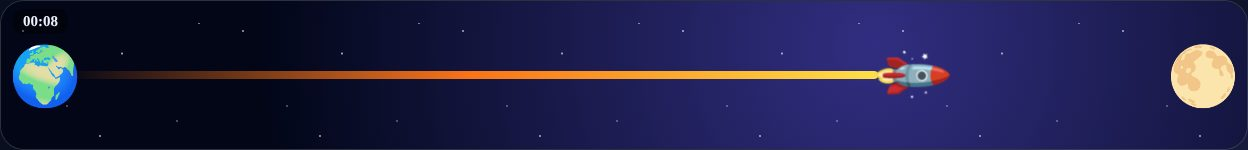
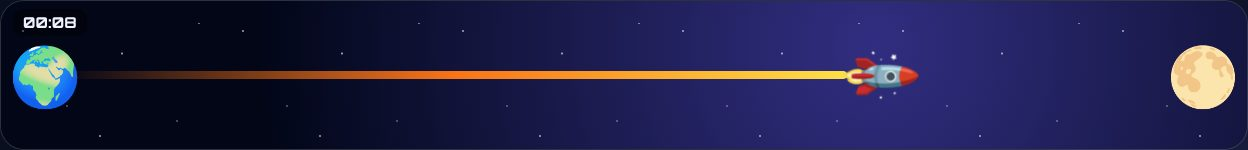
Reloj Alarma: dígitos de ancho fijo, marca mistikedu.com, barras San Fermín y Alien (sustituye Oruga)
Claude-Session: https://claude.ai/code/session_01MZQHbKRbRvLYSsw55mvYAR

diff --git a/reloj-alarma/index.html b/reloj-alarma/index.html
@@ -18,12 +18,14 @@ body{font-family:Outfit,system-ui,sans-serif;color:var(--fg);background:var(--bg
   background-image:radial-gradient(1200px 600px at 50% -10%,color-mix(in srgb,var(--a1) 28%,transparent),transparent 70%),radial-gradient(900px 500px at 110% 110%,color-mix(in srgb,var(--a2) 22%,transparent),transparent 70%);
   background-attachment:fixed;min-height:100vh;transition:background .4s;overflow-x:hidden}
 button{font-family:inherit;color:inherit;cursor:pointer}
+.brand{display:block;text-align:center;font-size:12px;font-weight:600;letter-spacing:.14em;color:var(--mut);text-decoration:none;padding-top:6px;position:relative;z-index:6}
+.brand:hover{color:var(--fg)}
 header{display:flex;align-items:center;gap:10px;padding:12px 16px;position:sticky;top:0;z-index:5;backdrop-filter:blur(10px)}
 header h1{flex:1;margin:0;font-size:20px;font-weight:800;letter-spacing:.3px}
 .ib{width:46px;height:46px;border-radius:14px;border:1px solid var(--bd);background:var(--card);font-size:22px;display:grid;place-items:center;transition:.15s}
 .ib:hover{background:rgba(255,255,255,.14);transform:translateY(-1px)}
 body[data-v="home"] #back{visibility:hidden}
-.view{display:none;min-height:calc(100vh - 70px);flex-direction:column}
+.view{display:none;min-height:calc(100vh - 92px);flex-direction:column}
 .view.on{display:flex}
 
 /* HOME */
@@ -42,9 +44,10 @@ body[data-v="home"] #back{visibility:hidden}
 
 /* STAGE */
 .stage{flex:1;display:flex;flex-direction:column;align-items:center;justify-content:center;padding:10px 16px;gap:14px;text-align:center}
-.disp{font-family:Orbitron,monospace;font-weight:800;line-height:1;letter-spacing:.02em;font-variant-numeric:tabular-nums;
-  background:linear-gradient(180deg,#fff,color-mix(in srgb,var(--a1) 55%,#fff));-webkit-background-clip:text;background-clip:text;color:transparent;
+.disp{font-family:Orbitron,monospace;font-weight:800;line-height:1;font-variant-numeric:tabular-nums;color:#fff;
   filter:drop-shadow(0 0 28px color-mix(in srgb,var(--a1) 55%,transparent));white-space:nowrap;font-size:96px}
+.disp .dg,.disp .sp{display:inline-block;text-align:center;background:linear-gradient(180deg,#fff,color-mix(in srgb,var(--a1) 55%,#fff));-webkit-background-clip:text;background-clip:text;color:transparent}
+.disp .dg{width:.86em}.disp .sp{width:.32em}
 .sub{font-size:clamp(16px,2.6vw,24px);color:var(--mut);min-height:1.3em}
 .sub b{color:var(--fg)}
 .ctrls{display:flex;gap:12px;flex-wrap:wrap;justify-content:center}
@@ -170,16 +173,39 @@ select{background:#1a2036;color:var(--fg);border:1px solid var(--bd);border-radi
 .done .space .moon{animation:pop .6s}
 @keyframes pop{50%{transform:translateY(-50%) scale(1.4)}}
 
-/* oruga */
-.meadow{position:absolute;inset:0;background:linear-gradient(#1e3a8a 0,#0c4a6e 40%,#3f6212 40%,#4d7c0f)}
-.meadow .sun{position:absolute;right:16px;top:6px;font-size:32px}
-.apple{position:absolute;bottom:18px;font-size:min(34px,6vh);transition:transform .3s,opacity .3s}
-.apple.eaten{opacity:0;transform:scale(.2) translateY(-30px)}
-.meadow .mover{bottom:12px;font-size:min(58px,10vh)}
-.active .meadow .worm{display:inline-block;animation:inch .6s infinite}
-@keyframes inch{50%{transform:scaleX(-1.12) scaleY(.88)}}
-.done .meadow .mover{animation:fly 1.6s infinite ease-in-out}
-@keyframes fly{50%{transform:translateY(-40px) rotate(-10deg)}}
+/* san fermin */
+.sf{position:absolute;inset:0;background:#a8a29e}
+.sf .street{position:absolute;left:0;right:0;top:0;height:56%;display:flex}
+.house{flex:1;display:flex;justify-content:space-around;align-items:center;border-right:2px solid rgba(0,0,0,.12);min-width:44px}
+.house i{width:12px;height:18px;background:#1f2937;border-radius:6px 6px 0 0;border-bottom:4px solid #7f1d1d;box-shadow:0 6px 0 -2px #dc2626}
+.sf .cobble{position:absolute;left:0;right:0;top:56%;bottom:0;background:repeating-linear-gradient(90deg,rgba(0,0,0,.13) 0 2px,transparent 2px 24px),repeating-linear-gradient(0deg,rgba(0,0,0,.13) 0 2px,transparent 2px 14px),#a8a29e}
+.sf .plaza{position:absolute;right:6px;bottom:6px;font-size:min(64px,11vh);line-height:1;z-index:1}
+.sf .mover{bottom:6px}
+.mozosvg{height:min(84px,14vh);display:block}
+.bullsvg{height:min(68px,11.5vh);display:block}
+.sf .mover .bub{position:absolute;bottom:100%;left:50%;transform:translateX(-50%);font-size:15px;font-weight:800;background:#fff;color:#111;border-radius:12px;padding:3px 8px;white-space:nowrap;display:none}
+.sf .mover .bub.on{display:block}
+.legA,.legB,.armA,.armB,.blA,.blB{transform-box:fill-box;transform-origin:50% 0}
+.active .legA,.active .armB,.active .blA{animation:swing .3s infinite alternate ease-in-out}
+.active .legB,.active .armA,.active .blB{animation:swing2 .3s infinite alternate ease-in-out}
+@keyframes swing{from{transform:rotate(28deg)}to{transform:rotate(-28deg)}}
+@keyframes swing2{from{transform:rotate(-28deg)}to{transform:rotate(28deg)}}
+.active .sf svg{animation:bob .3s infinite}
+
+/* alien */
+.space2{position:absolute;inset:0;background:radial-gradient(circle at 20% 20%,#3b0764,#020617 70%)}
+.space2 .planet{position:absolute;right:10px;bottom:-45px;font-size:120px;line-height:1}
+.ufo{top:6%;transition:left .25s linear,top .25s linear}
+.ufosvg{width:min(100px,17vh);display:block}
+.active .ufosvg{animation:hover 1.4s infinite ease-in-out}
+@keyframes hover{50%{transform:translateY(-4px) rotate(-4deg)}}
+.ufosvg .lt{animation:blink .5s infinite alternate}
+.ufosvg .lt:nth-of-type(2n){animation-delay:.25s}
+@keyframes blink{to{opacity:.2}}
+.ufo .beam{position:absolute;left:10%;width:80%;top:78%;height:110px;clip-path:polygon(38% 0,62% 0,100% 100%,0 100%);background:linear-gradient(rgba(190,255,140,.85),rgba(190,255,140,0));opacity:0;transition:opacity .5s;z-index:-1}
+.done .ufo .beam{opacity:1;animation:pulse 1s infinite}
+.ufo .al{position:absolute;left:50%;top:105%;font-size:30px;transform:translateX(-50%) scale(0);transition:transform .5s cubic-bezier(.3,1.8,.5,1) .3s}
+.done .ufo .al{transform:translateX(-50%) scale(1)}
 
 /* vela */
 .t-vela{background:radial-gradient(circle at 50% 70%,#7c2d12 0,#1c0a03 70%)}
@@ -206,7 +232,8 @@ select{background:#1a2036;color:var(--fg);border:1px solid var(--bd);border-radi
 .note{color:var(--mut);font-size:13px;text-align:center;padding:0 16px 10px}
 
 /* FULLSCREEN */
-body.fs header{position:fixed;left:0;right:0;opacity:.25;transition:opacity .3s;backdrop-filter:none}
+body.fs .brand{position:fixed;top:0;left:0;right:0;opacity:.7;pointer-events:auto}
+body.fs header{position:fixed;top:14px;left:0;right:0;opacity:.25;transition:opacity .3s;backdrop-filter:none}
 body.fs header:hover{opacity:1}
 body.fs .config,body.fs .note,body.fs .presets,body.fs .aset,body.fs .laps{display:none}
 body.fs .view{min-height:100vh}
@@ -218,8 +245,12 @@ body.fs .crocsvg{width:30vh}
 body.fs .victim{font-size:11vh}
 body.fs .space .earth,body.fs .space .moon{font-size:12vh}
 body.fs .space .mover{font-size:10vh;margin-top:-5vh}
-body.fs .meadow .mover{font-size:11vh}
-body.fs .apple{font-size:6vh}
+body.fs .mozosvg{height:16vh}
+body.fs .bullsvg{height:13vh}
+body.fs .sf .plaza{font-size:13vh}
+body.fs .ufosvg{width:20vh}
+body.fs .space2 .planet{font-size:24vh;bottom:-9vh}
+body.fs .ufo .al{font-size:6vh}
 body.fs .flame{font-size:7vh}
 body.fs .wax{width:7vh}
 
@@ -232,6 +263,7 @@ body.fs .wax{width:7vh}
 </style>
 </head>
 <body data-v="home">
+<a class="brand" href="https://mistikedu.com" target="_blank" rel="noopener">mistikedu.com</a>
 <header>
   <button class="ib" id="back" title="Volver">←</button>
   <h1 id="ttl">Reloj Alarma</h1>
@@ -331,11 +363,16 @@ function fmtSW(ms){const cs=Math.floor(ms/10)%100,t=Math.floor(ms/1000),h=Math.f
 function fmtLeft(ms){if(ms<60000)return `${Math.max(0,Math.ceil(ms/1000))} s`;const t=Math.ceil(ms/60000),h=Math.floor(t/60),m=t%60;return h?`${h} h ${m} min`:`${m} min`}
 function hhmm(d){return `${pad(d.getHours())}:${pad(d.getMinutes())}`}
 function fit(el,text){
-  if(el._t!==text){el.textContent=text;el._t=text}
-  const L=text.replace(/[:.]/g,'').length+text.replace(/[^:.]/g,'').length*.45;
+  // Cada carácter va en su propia caja de ancho fijo: los dígitos no "bailan" al cambiar
+  if(el._t!==text){
+    const shape=t=>t.replace(/\d/g,'0');
+    if(!el._t||shape(el._t)!==shape(text)){el.innerHTML=[...text].map(c=>`<span class="${/\d/.test(c)?'dg':'sp'}">${c}</span>`).join('')}
+    else{const ch=el.children;for(let i=0;i<text.length;i++)if(el._t[i]!==text[i])ch[i].textContent=text[i]}
+    el._t=text}
+  const nd=(text.match(/\d/g)||[]).length,W=nd*.86+(text.length-nd)*.32;
   const fs=document.body.classList.contains('fs');
-  const key=L+'|'+fs; if(el._k===key)return; el._k=key;
-  el.style.fontSize=fs?`min(${118/L}vw,42vh)`:`min(${92/L}vw,22vh,200px)`;
+  const key=W+'|'+fs; if(el._k===key)return; el._k=key;
+  el.style.fontSize=fs?`min(${100/W}vw,42vh)`:`min(${76/W}vw,22vh,200px)`;
 }
 
 /* ---------- audio ---------- */
@@ -368,7 +405,7 @@ async function keepAwake(on){try{if(on&&!wl&&navigator.wakeLock){wl=await naviga
 function updWake(){keepAwake(T.status==='running'||W.running||A.armed)}
 
 /* ---------- progress bars ---------- */
-const TYPES=[['normal','▬','Normal'],['circular','⭕','Circular'],['carrera','🏃','Carrera'],['jungla','🐊','Jungla'],['cohete','🚀','Cohete'],['oruga','🐛','Oruga'],['vela','🕯','Vela'],['arena','⏳','Reloj de arena']];
+const TYPES=[['normal','▬','Normal'],['circular','⭕','Circular'],['carrera','🏃','Carrera'],['jungla','🐊','Jungla'],['cohete','🚀','Cohete'],['sanfermin','🐂','San Fermín'],['alien','🛸','Alien'],['vela','🕯','Vela'],['arena','⏳','Reloj de arena']];
 let uid=0;
 const TPL={
   normal:()=>`<div class="pn-track"><div class="pn-fill" data-k="fill"></div></div><div class="pn-txt" data-k="txt"></div>`,
@@ -376,8 +413,9 @@ const TPL={
   carrera:()=>`<div class="race"><div class="lanes"></div><div class="start">SALIDA</div><div class="finish"></div><div class="flag">🏁</div><div class="mover" data-k="m"><span class="bob"><span class="flip">🏃</span></span></div><div class="trophy">🏆</div></div><div class="p-label in" data-k="lab"></div>`,
   jungla:()=>`<div class="jungle"><div class="deco">🌴🌿🌴🌳🌿🌴🌿🌳🌴🌿🌴</div><div class="ripple"></div><div class="mover croc" data-k="m"><svg class="crocsvg" viewBox="0 0 200 80"><path d="M0 50 Q30 38 62 42 L62 60 Q30 62 0 50Z" fill="#3f7d2c"/><ellipse cx="96" cy="50" rx="44" ry="15" fill="#4a9a35"/><path d="M62 40 q7-9 14 0 q7-9 14 0 q7-9 14 0 q7-9 14 0" fill="#3f7d2c"/><rect x="72" y="58" width="10" height="16" rx="4" fill="#3f7d2c"/><rect x="112" y="58" width="10" height="16" rx="4" fill="#3f7d2c"/><g class="jawL"><path d="M128 52 L190 53 Q195 59 186 62 L128 63Z" fill="#6cc152"/><path d="M146 53 l3-5 l3 5 l3-5 l3 5 l3-5 l3 5 l3-5 l3 5 l3-5 l3 5Z" fill="#fff"/></g><g class="jawU"><path d="M128 36 L197 45 Q200 51 192 52 L128 52Z" fill="#4a9a35"/><path d="M142 52 l3 6 l3-6 l3 6 l3-6 l3 6 l3-6 l3 6 l3-6 l3 6 l3-6 l3 6 l3-6Z" fill="#fff"/><circle cx="192" cy="46" r="1.6" fill="#1e3a14"/></g><circle cx="138" cy="34" r="8" fill="#4a9a35"/><circle cx="140" cy="33" r="4.5" fill="#fef08a"/><circle cx="141" cy="33" r="2.2" fill="#111"/></svg></div><div class="victim" data-k="v"><span class="bub" data-k="b"></span><span data-k="pe">🧍</span></div></div><div class="p-label in" data-k="lab"></div>`,
   cohete:()=>`<div class="space"><div class="stars"></div><div class="earth">🌍</div><div class="moon">🌕</div><div class="trail" data-k="t"></div><div class="mover" data-k="m"><span class="rk">🚀</span></div></div><div class="p-label in" data-k="lab"></div>`,
-  oruga:()=>{let a='';const N=8;for(let i=1;i<=N;i++){const f=i/(N+1);a+=`<span class="apple" data-f="${f}" style="left:calc((100% - 80px) * ${f} + 40px)">${i%3===0?'🍐':'🍎'}</span>`}
-    return `<div class="meadow"><div class="sun">☀</div>${a}<div class="mover" data-k="m"><span class="worm flip" data-k="w">🐛</span></div></div><div class="p-label in" data-k="lab"></div>`},
+  sanfermin:()=>{let h='';const cols=['#fbbf24','#fde68a','#fca5a5','#e7e5e4','#fdba74','#d9f99d','#bfdbfe','#fecaca'];for(let i=0;i<12;i++)h+=`<div class="house" style="background:${cols[i%8]}"><i></i><i></i></div>`;
+    return `<div class="sf"><div class="street">${h}</div><div class="cobble"></div><div class="plaza" data-k="pl">🏟</div><div class="mover" data-k="bu"><svg class="bullsvg" viewBox="0 0 130 75"><path d="M12 30 q-9 4 -7 20" stroke="#111" stroke-width="3" fill="none" stroke-linecap="round"/><g class="blB"><path d="M28 46 L22 71" stroke="#0c0a09" stroke-width="8" stroke-linecap="round"/></g><g class="blA"><path d="M86 46 L80 71" stroke="#0c0a09" stroke-width="8" stroke-linecap="round"/></g><ellipse cx="57" cy="38" rx="48" ry="20" fill="#1c1917"/><path d="M80 20 q8 -6 16 2 l-6 14Z" fill="#1c1917"/><path d="M88 26 q22 -8 31 9 q3 11 -9 13 q-14 2 -23 -6Z" fill="#1c1917"/><path d="M104 23 q-3 -12 -15 -14" stroke="#f5f0dc" stroke-width="4" fill="none" stroke-linecap="round"/><path d="M110 24 q8 -11 17 -10" stroke="#f5f0dc" stroke-width="4" fill="none" stroke-linecap="round"/><circle cx="113" cy="32" r="2.2" fill="#ef4444"/><circle cx="121" cy="42" r="1.5" fill="#57534e"/><g class="blA"><path d="M34 46 L40 71" stroke="#292524" stroke-width="8" stroke-linecap="round"/></g><g class="blB"><path d="M92 46 L98 71" stroke="#292524" stroke-width="8" stroke-linecap="round"/></g></svg></div><div class="mover" data-k="m"><span class="bub" data-k="b"></span><svg class="mozosvg" viewBox="0 0 50 90"><g class="legB"><path d="M24 55 L18 84" stroke="#e2e8f0" stroke-width="7" stroke-linecap="round"/><path d="M18 85 h-6" stroke="#222" stroke-width="5" stroke-linecap="round"/></g><g class="armB"><path d="M23 30 L13 44" stroke="#e2e8f0" stroke-width="5" stroke-linecap="round"/></g><g class="legA"><path d="M24 55 L31 84" stroke="#fff" stroke-width="7" stroke-linecap="round"/><path d="M31 85 h7" stroke="#222" stroke-width="5" stroke-linecap="round"/></g><rect x="16" y="24" width="17" height="32" rx="6" fill="#fff" stroke="#cbd5e1"/><rect x="15" y="47" width="19" height="6" fill="#dc2626"/><path d="M33 52 l6 9 l-4 1Z" fill="#dc2626"/><path d="M16 25 L34 25 L25 38Z" fill="#dc2626"/><circle cx="26" cy="15" r="8" fill="#f2c094"/><path d="M18 13 q8 -11 16 -1" fill="#3b2a1a"/><circle cx="30" cy="15" r="1.3" fill="#111"/><g class="armA"><path d="M25 30 L36 43" stroke="#fff" stroke-width="5" stroke-linecap="round"/></g></svg></div></div><div class="p-label in" data-k="lab"></div>`},
+  alien:()=>`<div class="space2"><div class="stars"></div><div class="planet" data-k="pl">🌍</div><div class="mover ufo" data-k="m"><div class="beam"></div><span class="al">👽</span><svg class="ufosvg" viewBox="0 0 100 50"><ellipse cx="50" cy="20" rx="20" ry="16" fill="#67e8f9" opacity=".85"/><circle cx="50" cy="17" r="6" fill="#4ade80"/><circle cx="47.5" cy="16" r="1.4" fill="#111"/><circle cx="52.5" cy="16" r="1.4" fill="#111"/><ellipse cx="50" cy="30" rx="48" ry="12" fill="#94a3b8"/><ellipse cx="50" cy="27" rx="48" ry="6" fill="#cbd5e1"/><circle class="lt" cx="18" cy="32" r="3" fill="#facc15"/><circle class="lt" cx="38" cy="36" r="3" fill="#f43f5e"/><circle class="lt" cx="62" cy="36" r="3" fill="#22c55e"/><circle class="lt" cx="82" cy="32" r="3" fill="#facc15"/></svg></div></div><div class="p-label in" data-k="lab"></div>`,
   vela:()=>`<div class="cwrap"><div class="flame" data-k="f">🔥</div><div class="wax" data-k="w"></div><div class="puddle" data-k="pd"></div></div><div class="p-label in" data-k="lab"></div>`,
   arena:()=>{const id='hg'+(++uid);return `<svg viewBox="0 0 100 160"><defs><clipPath id="${id}t"><polygon points="16,12 84,12 52,78 48,78"/></clipPath><clipPath id="${id}b"><polygon points="48,82 52,82 84,148 16,148"/></clipPath><linearGradient id="${id}g" x1="0" x2="1"><stop offset="0" stop-color="#f59e0b"/><stop offset=".5" stop-color="#fde68a"/><stop offset="1" stop-color="#d97706"/></linearGradient></defs>
     <rect x="6" y="2" width="88" height="10" rx="4" fill="#92400e"/><rect x="6" y="148" width="88" height="10" rx="4" fill="#92400e"/>
@@ -395,10 +433,13 @@ const UPD={
     if(q.b._m!==msg){q.b._m=msg;q.b.textContent=msg;q.b.classList.toggle('on',!!msg)}
     q.v.classList.toggle('panic',p>.75&&!o.done);q.pe.className=(p>.6&&!o.done)?"flip":"";q.pe.textContent=o.done?'🫣':(p>.6?'🏃':'🧍');q.lab.textContent=l||''},
   cohete(q,p,l,o){q.m.style.left=`calc((100% - 160px) * ${p} + 56px)`;q.t.style.width=`calc((100% - 160px) * ${p})`;q.lab.textContent=o.done?'¡Alunizaje! 🌕':(l||'')},
-  oruga(q,p,l,o){q.m.style.left=`calc((100% - 80px) * ${p} - 4px)`;
-    q.el.querySelectorAll('.apple').forEach(a=>a.classList.toggle('eaten',p>=+a.dataset.f-.005));
-    const e=o.done?'🦋':'🐛';if(q.w.textContent!==e){q.w.textContent=e;q.w.classList.toggle('flip',!o.done)}
-    q.w.style.fontSize=o.done?'':(1+p*.35)+'em';q.lab.textContent=o.done?'¡Mariposa! 🦋':(l||'')},
+  sanfermin(q,p,l,o){const W=q.el.clientWidth,rw=q.m.offsetWidth||47,bw=q.bu.offsetWidth||118,pw=(q.pl.offsetWidth||64)+14,x0=bw*.75,x1=Math.max(x0,W-pw-rw),x=x0+(x1-x0)*p;
+    q.m.style.left=x+'px';q.bu.style.left=(x-bw-2-(1-p)*bw*.5)+'px';
+    const msg=o.done?'🎉 ¡Olé!':p>.85?'😱 ¡Corre!':p>.55?'😅':'';
+    if(q.b._m!==msg){q.b._m=msg;q.b.textContent=msg;q.b.classList.toggle('on',!!msg)}
+    q.lab.textContent=o.done?'¡A la plaza! 🏟':(l||'')},
+  alien(q,p,l,o){const W=q.el.clientWidth,uw=q.m.offsetWidth||100,pc=W-10-(q.pl.offsetWidth||120)/2,x0=8,x1=Math.max(x0,pc-uw/2);
+    q.m.style.left=(x0+(x1-x0)*p)+'px';q.m.style.top=(4+p*14)+'%';q.lab.textContent=o.done?'👽 ¡Han llegado!':(l||'')},
   vela(q,p,l,o){q.w.style.height=((1-p)*64+6)+'%';q.pd.style.width=(30+p*120)+'px';q.f.textContent=o.done?'💨':'🔥';q.lab.textContent=l||''},
   arena(q,p,l,o){const h=66*(1-p);q.top.setAttribute('y',78-h);q.top.setAttribute('height',h);const hb=66*p;q.bot.setAttribute('y',148-hb);q.bot.setAttribute('height',hb);
     q.s.style.display=(p>0&&p<1&&o.active)?'':'none';q.s.setAttribute('y2',148-hb);q.lab.textContent=l||''}
@@ -408,11 +449,11 @@ class Progress{
   set(type){if(type===this.type)return;this.type=type;this.el.className='prog t-'+type;this.el.innerHTML=TPL[type]();
     this.q={el:this.el};this.el.querySelectorAll('[data-k]').forEach(n=>this.q[n.dataset.k]=n)}
   update(p,label,o){if(this.el.classList.contains('hide'))return;p=clamp(p||0);
-    const key=p.toFixed(4)+label+o.active+o.done+o.dir;if(key===this._k)return;this._k=key;
+    const key=p.toFixed(4)+label+o.active+o.done+o.dir+document.body.classList.contains('fs')+this.el.clientWidth;if(key===this._k)return;this._k=key;
     this.el.classList.toggle('active',!!o.active);this.el.classList.toggle('done',!!o.done);UPD[this.type](this.q,p,label,o)}
 }
 const PR={};['alarma','temporizador','cronometro','reloj'].forEach(v=>PR[v]=new Progress($('#p-'+v)));
-function applyProg(v){const c=CFG.prog[v];PR[v].set(c.type);PR[v]._k=null;$('#p-'+v).classList.toggle('hide',!c.show)}
+function applyProg(v){const c=CFG.prog[v];if(c.type==='oruga')c.type='sanfermin';if(!TPL[c.type])c.type='normal';PR[v].set(c.type);PR[v]._k=null;$('#p-'+v).classList.toggle('hide',!c.show)}
 
 /* ---------- settings panels ---------- */
 function soundRow(){return `<div class="row">🔊 Sonido: <select data-a="sound">${Object.entries(SOUNDS).map(([k,s])=>`<option value="${k}" ${CFG.sound===k?'selected':''}>${s.n}</option>`).join('')}</select><button class="btn" style="min-width:0;padding:7px 14px;font-size:15px" data-a="test">▶ Probar</button></div>`}

diff --git a/reloj-alarma/README.md b/reloj-alarma/README.md
@@ -25,7 +25,8 @@ Cada herramienta guarda su propio tipo de barra (⚙ Ajustes):
 - 🏃 Carrera: el corredor llega a la meta
 - 🐊 Jungla: el cocodrilo se acerca a la persona hasta el «¡ÑAM!»
 - 🚀 Cohete: de la Tierra a la Luna
-- 🐛 Oruga: se come las frutas y se convierte en mariposa
+- 🐂 San Fermín: el toro persigue al mozo (de blanco y pañuelo rojo) hasta la plaza
+- 🛸 Alien: un ovni llega a la Tierra
 - 🕯 Vela: se consume hasta apagarse
 - ⏳ Reloj de arena
 
